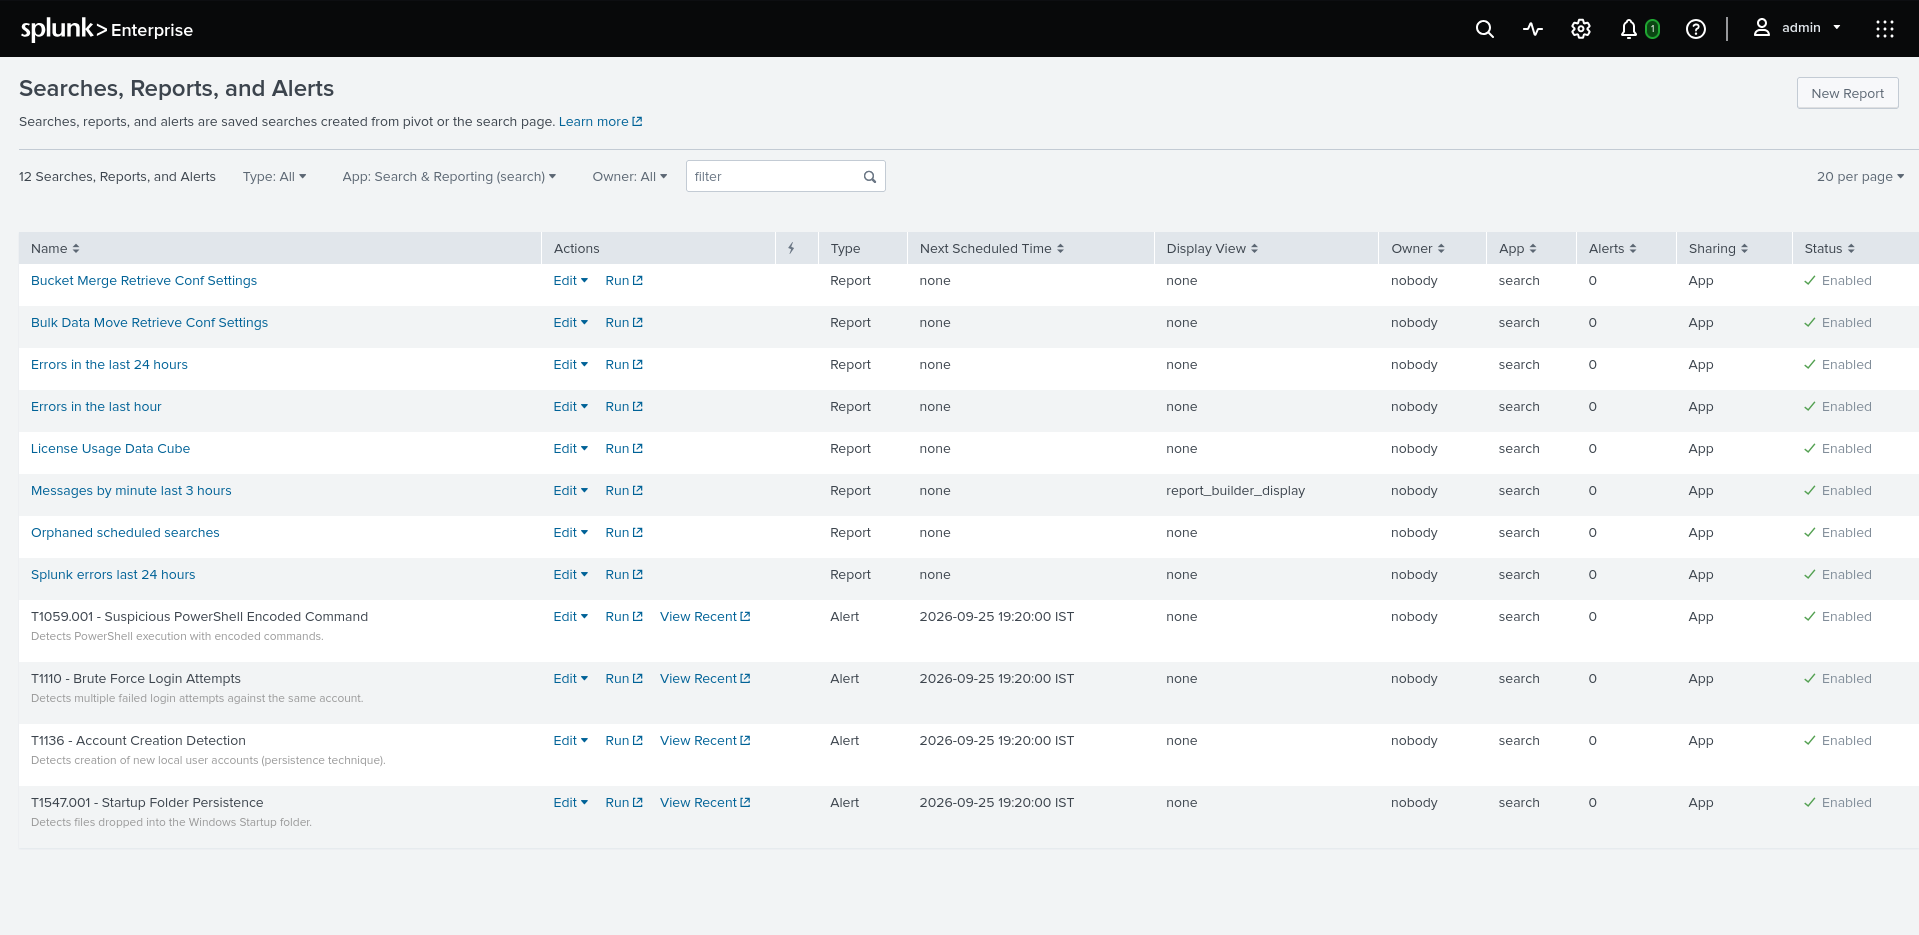
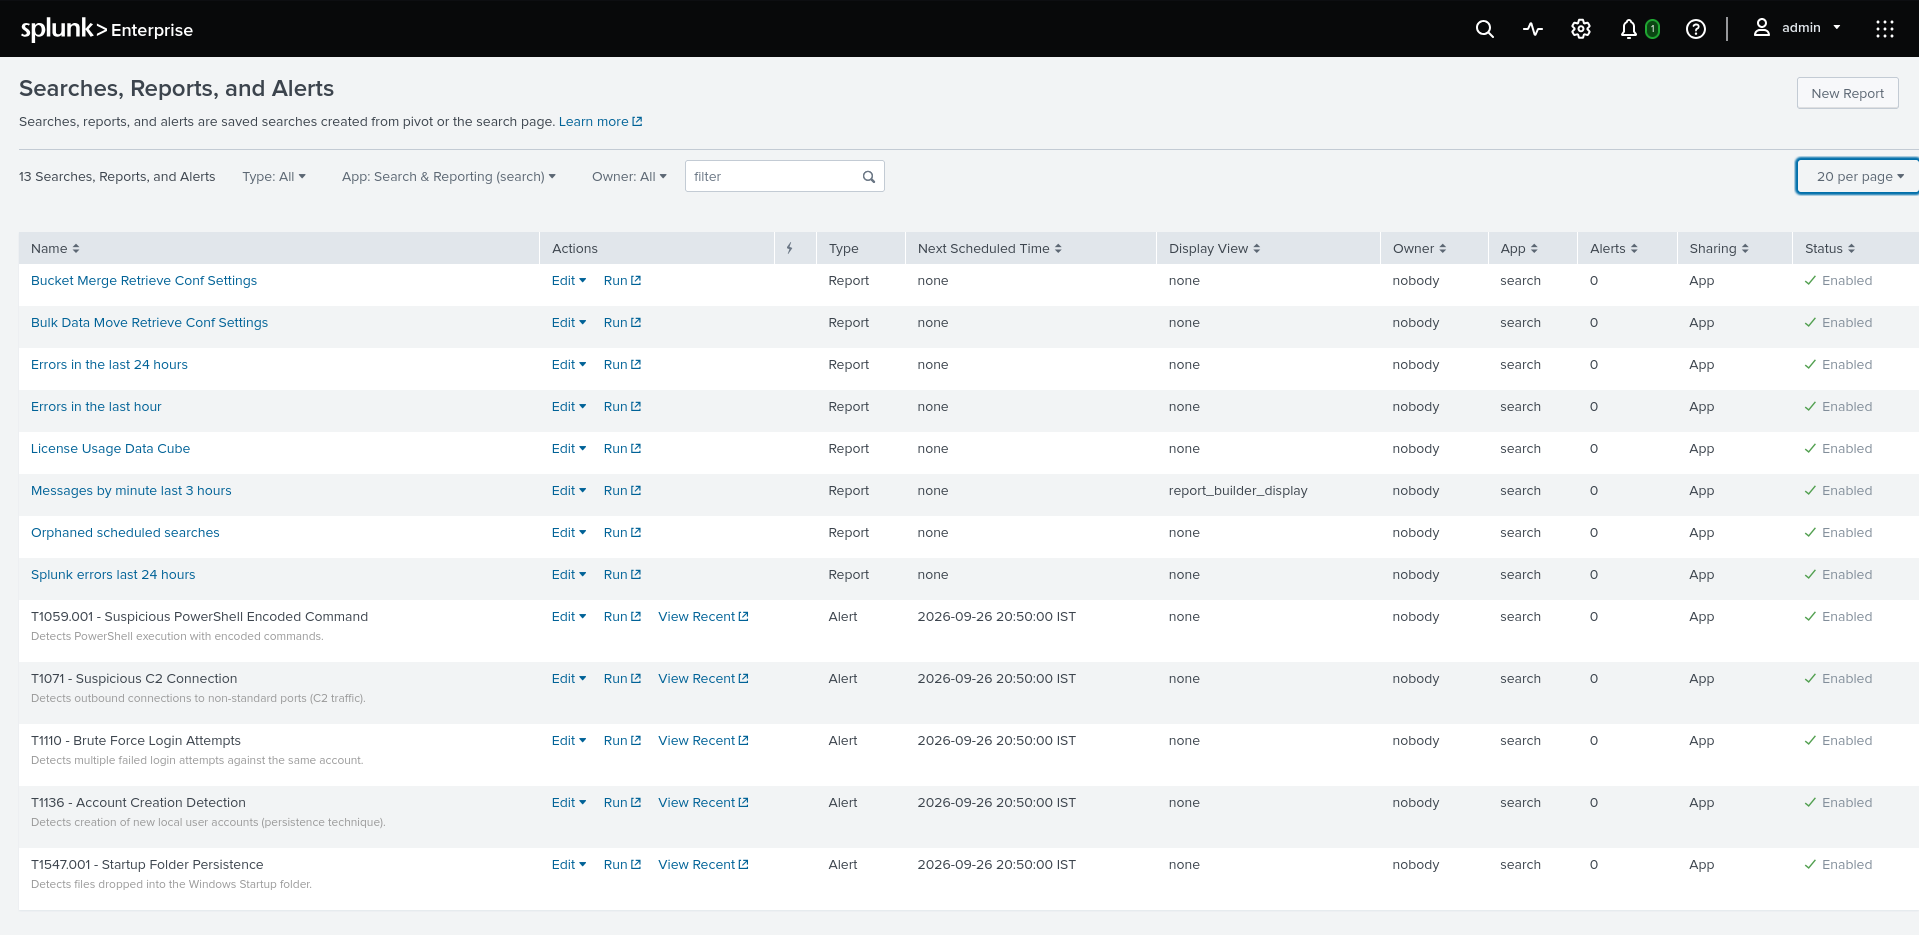
Schedule C2 alert and Updated alerts documentation

diff --git a/alerts/README.md b/alerts/README.md
@@ -6,12 +6,13 @@ Automated scheduled alerts configured for each detection rule.
 are configured directly via `savedsearches.conf`. This is functionally 
 equivalent to native alerting.)*
 
-| Alert Name | MITRE ID | Schedule | Next Run |
+| Alert Name | MITRE ID | Schedule |
 |---|---|---|---|
-| T1136 - Account Creation Detection | T1136.001 | Every 5 min | 19:20 IST |
-| T1110 - Brute Force Login Attempts | T1110 | Every 5 min | 19:20 IST |
-| T1059.001 - Suspicious PowerShell | T1059.001 | Every 5 min | 19:20 IST |
-| T1547.001 - Startup Folder Persistence | T1547.001 | Every 5 min | 19:20 IST |
+| T1136 - Account Creation Detection | T1136.001 | Every 5 min |
+| T1110 - Brute Force Login Attempts | T1110 | Every 5 min |
+| T1059.001 - Suspicious PowerShell | T1059.001 | Every 5 min |
+| T1547.001 - Startup Folder Persistence | T1547.001 | Every 5 min |
+| T1071 - Suspicious C2 Connection | T1071, T1571 | Every 5 min |
 
 ## Configuration Method
 
